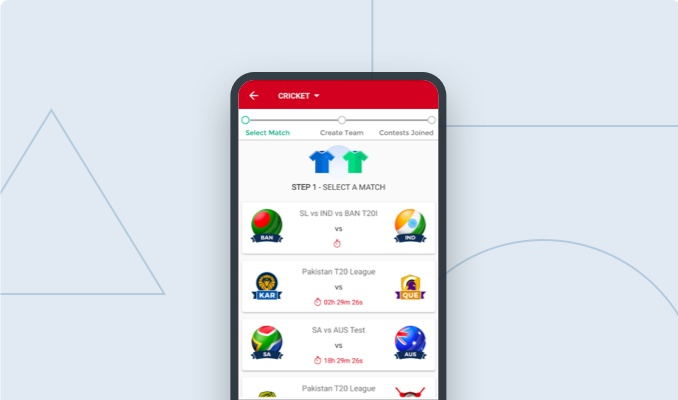
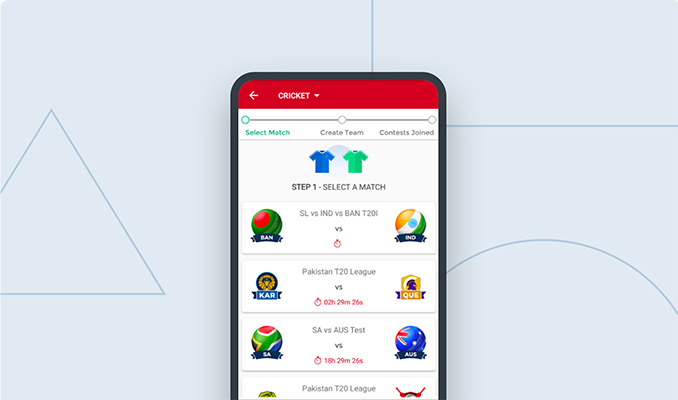
Add responsive images for small cards.

diff --git a/src/showcase/index.html b/src/showcase/index.html
@@ -122,7 +122,14 @@ body_class: showcase
         {% unless case.featured %}
         <div class="col-12 col-md-6 col-xl-3 px-4 mb-8 mb-md-10 showcase__card">
             <div class="card">
-                {% asset '{{ case.card_image }}' class='card-img-top' %}
+                {% capture image_src_1x %}{% asset '{{ case.card_image | replace: "@", "_1x" }}' @path %}{% endcapture %}
+                {% capture image_src_2x %}{% asset '{{ case.card_image | replace: "@", "_2x" }}' @path %}{% endcapture %}
+                <img class="card-img-top" src="{{ image_src_2x }}" alt=""
+                     srcset="
+                        {{ image_src_1x }} 400w,
+                        {{ image_src_2x }} 600w,
+                     "
+                >
                 <div class="card-body">
                     <div class="card-title">
                         {% if case.logo_src %}
